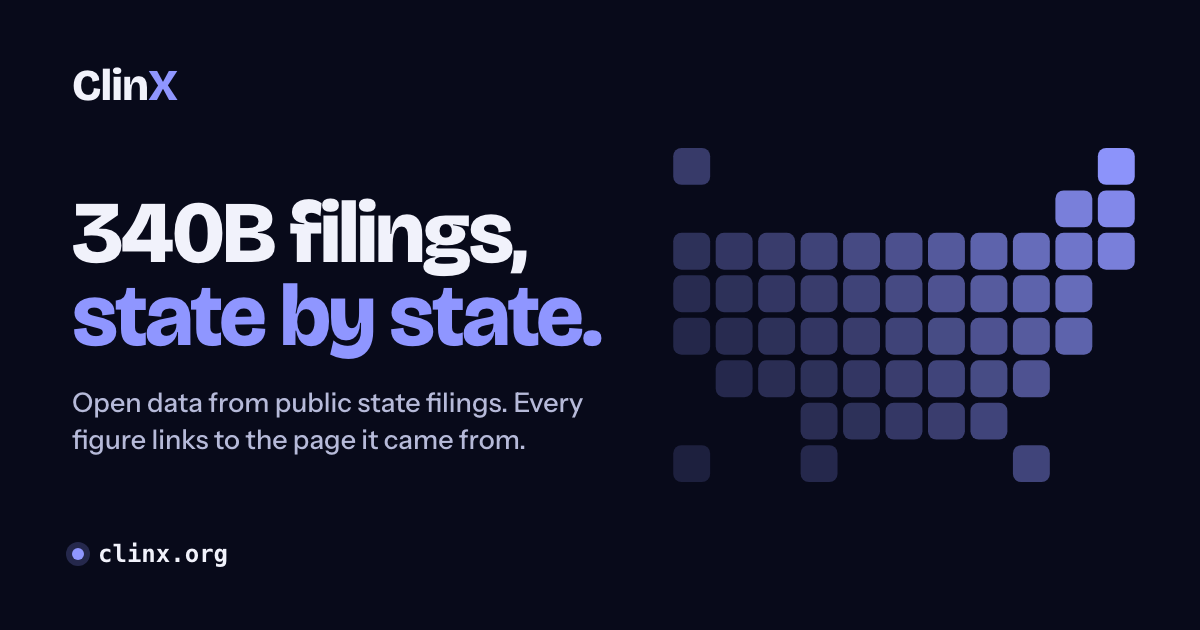
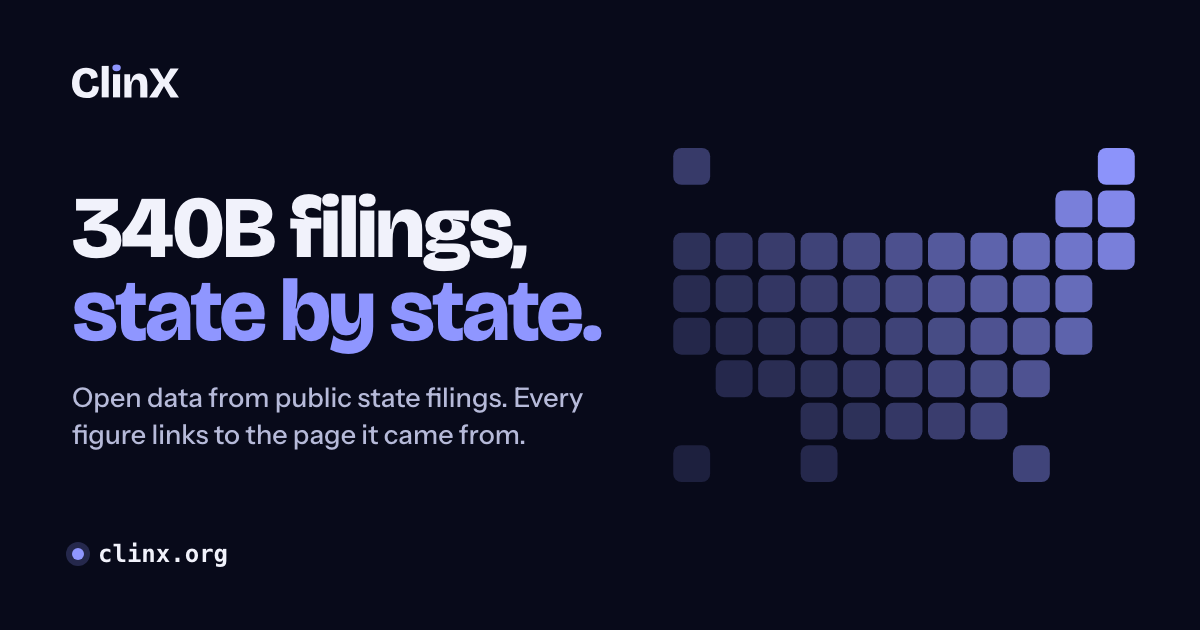
Brand: the wordmark with a purple dot, the dot as the mark, one standard
The owner picked the mark on 12 Nov 2026: the purple dot of the i by itself,
and the name in one colour with that dot. The coloured X and the X tab icon
are gone.

- docs/brand.md: the standard (name, wordmark, mark, colours, typefaces,
  ClinX beside ReferralFinderX, what not to do).
- scripts/brand/: one script draws every SVG from one set of letter shapes;
  README says how to redraw the pictures and cards.
- public/brand/: wordmarks for light and dark, the mark (SVG, PNG 512 and
  1024, a square version), a share card for each of the three repositories,
  the site's share card redrawn with the new wordmark.
- Tab icon set: favicon.svg (follows light and dark), favicon.ico,
  favicon-32.png, apple-touch-icon.png.
- Header and footer draw the wordmark from the same shapes; colours come
  from the stylesheet. Nothing in the drug sections changed.

Changed region(s): [[0.0617, 0.3016, 0.5242, 0.573], [0.0617, 0.6032, 0.4933, 0.7238], [0.0617, 0.0905, 0.1542, 0.181]]

diff --git a/scripts/brand/repo-cards.html b/scripts/brand/repo-cards.html
@@ -1,0 +1,61 @@
+<!doctype html>
+<!--
+  The preview pictures GitHub shows when a link to one of the three repositories is shared
+  (public/brand/card-clinx-340b.png, card-clinx-radar.png, card-clinx-org.png).
+  One file holds all three. To redraw one: open this file with the repository's name after a #
+  (repo-cards.html#clinx-radar) in a browser window 1280 wide and 640 tall and save a picture of it.
+  The look is the share card's (share-card.html). The large dot is the ClinX mark.
+-->
+<html lang="en">
+<head>
+<meta charset="utf-8">
+<title>ClinX repository cards</title>
+<style>
+@font-face { font-family: 'Bricolage Grotesque'; font-weight: 200 800; src: url('../../node_modules/@fontsource-variable/bricolage-grotesque/files/bricolage-grotesque-latin-opsz-normal.woff2') format('woff2'); }
+@font-face { font-family: 'Instrument Sans'; font-weight: 400 700; src: url('../../node_modules/@fontsource-variable/instrument-sans/files/instrument-sans-latin-wght-normal.woff2') format('woff2'); }
+* { box-sizing: border-box; margin: 0; }
+html, body { width: 1280px; height: 640px; }
+body { background: #080a1a; color: #f1f2fb; font-family: 'Instrument Sans', system-ui, sans-serif; position: relative; overflow: hidden; -webkit-font-smoothing: antialiased; }
+section { display: none; }
+section:target { display: block; }
+.say { position: absolute; left: 80px; top: 68px; bottom: 68px; width: 640px; display: flex; flex-direction: column; }
+.mark { height: 37px; align-self: flex-start; }
+h1 { font: 800 80px/0.96 'Bricolage Grotesque', sans-serif; letter-spacing: -0.03em; margin-top: auto; }
+h1 span { display: block; color: #8f96ff; }
+p { font: 500 27px/1.35 'Instrument Sans', sans-serif; color: #b6bad9; margin-top: 26px; max-width: 600px; }
+.where { margin-top: auto; font: 600 23px/1 ui-monospace, 'SF Mono', Menlo, monospace; color: #f1f2fb; display: flex; align-items: center; gap: 14px; }
+.where i { width: 12px; height: 12px; border-radius: 50%; background: #8f96ff; box-shadow: 0 0 0 6px rgba(143, 150, 255, 0.22); }
+.where b { font-weight: 600; color: #b6bad9; }
+.dot { position: absolute; right: -96px; top: 50%; translate: 0 -50%; width: 560px; height: 560px; }
+</style>
+</head>
+<body>
+<section id="clinx-340b">
+  <div class="say">
+    <img class="mark" src="../../public/brand/clinx-wordmark-on-dark.svg" alt="ClinX">
+    <h1>State 340B filings, <span>as open data.</span></h1>
+    <p>Every figure is kept as printed and names the page of the filing it was read from.</p>
+    <div class="where"><i></i><span><b>github.com/VVillBerchtold/</b>clinx-340b</span></div>
+  </div>
+  <img class="dot" src="../../public/brand/clinx-mark.svg" alt="">
+</section>
+<section id="clinx-radar">
+  <div class="say">
+    <img class="mark" src="../../public/brand/clinx-wordmark-on-dark.svg" alt="ClinX">
+    <h1>What changed in <span>the 340B registry.</span></h1>
+    <p>Keeps dated copies of the federal registry and reports what changed between two of them.</p>
+    <div class="where"><i></i><span><b>github.com/VVillBerchtold/</b>clinx-radar</span></div>
+  </div>
+  <img class="dot" src="../../public/brand/clinx-mark.svg" alt="">
+</section>
+<section id="clinx-org">
+  <div class="say">
+    <img class="mark" src="../../public/brand/clinx-wordmark-on-dark.svg" alt="ClinX">
+    <h1>The code behind <span>clinx.org.</span></h1>
+    <p>A free site of state 340B filings. No cookies, no trackers, no sign-in.</p>
+    <div class="where"><i></i><span><b>github.com/VVillBerchtold/</b>clinx-org</span></div>
+  </div>
+  <img class="dot" src="../../public/brand/clinx-mark.svg" alt="">
+</section>
+</body>
+</html>

diff --git a/scripts/brand/share-card.html b/scripts/brand/share-card.html
@@ -2,6 +2,7 @@
 <!--
   The picture a link to ClinX.org shows when it is shared (public/brand/share-card.png).
   To redraw it: open this file in a browser window 1200 wide and 630 tall and save a picture of it.
+  The name at the top is the drawn wordmark (clinx-wordmark-on-dark.svg, from build.mjs).
   The tile pattern is decoration: the grid is the site's state map with no letters, and the
   brightness of a tile stands for nothing. It never needs to change when a state is added.
 -->
@@ -16,8 +17,8 @@
 html, body { width: 1200px; height: 630px; }
 body { background: #080a1a; color: #f1f2fb; font-family: 'Instrument Sans', system-ui, sans-serif; position: relative; overflow: hidden; -webkit-font-smoothing: antialiased; }
 .say { position: absolute; left: 72px; top: 64px; bottom: 64px; width: 580px; display: flex; flex-direction: column; }
-.mark { font: 800 44px/1 'Bricolage Grotesque', sans-serif; letter-spacing: -0.02em; }
-.mark span, h1 span { color: #8f96ff; }
+.mark { height: 34px; align-self: flex-start; }
+h1 span { color: #8f96ff; }
 h1 { font: 800 88px/0.94 'Bricolage Grotesque', sans-serif; letter-spacing: -0.03em; margin-top: auto; }
 h1 span { display: block; }
 p { font: 500 27px/1.35 'Instrument Sans', sans-serif; color: #b6bad9; margin-top: 28px; max-width: 560px; }
@@ -28,7 +29,7 @@ svg { position: absolute; right: 56px; top: 50%; translate: 0 -50%; width: 480px
 </head>
 <body>
 <div class="say">
-  <div class="mark">Clin<span>X</span></div>
+  <img class="mark" src="../../public/brand/clinx-wordmark-on-dark.svg" alt="ClinX">
   <h1>340B filings, <span>state by state.</span></h1>
   <p>Open data from public state filings. Every figure links to the page it came from.</p>
   <div class="where"><i></i>clinx.org</div>

diff --git a/src/styles/layout.css b/src/styles/layout.css
@@ -198,17 +198,27 @@ code {
   padding-block: 1.25rem;
 }
 .mark {
-  font: 800 1.625rem/1 var(--display);
-  letter-spacing: -0.02em;
+  display: inline-flex;
+  align-items: center;
+  height: 1.625rem;
+  color: var(--ink);
   text-decoration: none;
 }
-.mark span {
-  display: inline-block;
-  color: var(--accent);
-  transition: transform 0.5s cubic-bezier(0.2, 0.9, 0.2, 1.2);
+/* The wordmark is a drawing (docs/brand.md): one colour, with the dot of the i in the accent. */
+.wordmark {
+  display: block;
+  height: 1.25rem;
+  width: auto;
+  overflow: visible;
+  fill: currentColor;
 }
-.mark:hover span {
-  transform: rotate(90deg) scale(1.15);
+.wordmark-dot {
+  fill: var(--accent);
+  transition: translate 0.5s cubic-bezier(0.2, 0.9, 0.2, 1.2);
+}
+/* The drawing is 774 units tall, so 70 units is a lift of about two pixels in the header. */
+.mark:hover .wordmark-dot {
+  translate: 0 -70px;
 }
 .site-nav ul {
   display: flex;

diff --git a/docs/brand.md b/docs/brand.md
@@ -1,0 +1,60 @@
+# The ClinX brand
+
+A two-minute read. It covers how the name is written, the two drawings, the colours and the typefaces, so that everything carrying the ClinX name looks like it came from one place.
+
+## The name
+
+Write **ClinX**: capital C, capital X, one word. Not Clinx, CLINX, Clin-X or Clin X. The site is **clinx.org**, in lower case.
+
+## The wordmark and the mark
+
+| | What it is | Files |
+|---|---|---|
+| **Wordmark** | The name in the site's heavy lettering, in one colour, with the dot of the i in purple | `public/brand/clinx-wordmark-on-light.svg`, `clinx-wordmark-on-dark.svg` |
+| **Mark** | That same dot by itself, with nothing behind it | `public/brand/clinx-mark.svg`, `clinx-mark-on-dark.svg`, PNG at 512 and 1024 |
+
+The dot is the typeface's own dot. It is a little wider than it is tall, so it is not a plain circle. Use the files; do not redraw it.
+
+- **Which one.** Use the wordmark wherever the name fits. Use the mark only where it cannot: a browser tab, an app icon, a profile picture.
+- **Not side by side.** The wordmark already holds the dot, so the mark is never placed next to it.
+- **Clear space.** Keep a gap as wide as the dot on every side of the wordmark, and half the mark's width around the mark.
+- **Smallest size.** Wordmark: 16 pixels tall. Mark: 16 pixels.
+- **Where a square is needed** (a picture that is cut to a circle, or cannot show through), use `clinx-mark-square.svg`: the dot on the light page colour.
+
+## Colours
+
+| | Light pages | Dark pages |
+|---|---|---|
+| Purple (the dot, links, buttons) | `#3437e6` | `#8f96ff` |
+| Ink (the name, text) | `#0b0d24` | `#f1f2fb` |
+| Page | `#f4f5fc` | `#080a1a` |
+
+Purple is the brand colour. The full set the site uses lives in `src/styles/tokens.css`.
+
+## Typefaces
+
+- **Bricolage Grotesque** for headings and the wordmark (weight 800).
+- **Instrument Sans** for everything else.
+
+Both are open typefaces and are served from the site itself.
+
+## ClinX and ReferralFinderX
+
+They are separate brands by the same founder, Will Berchtold. Each keeps its own name, logo and colours. When one mentions the other it is in plain words or with the other's own logo, as on the Products page. Never blend the two logos, and always write ReferralFinderX in full.
+
+## What not to do
+
+- Do not colour the X, or any letter. The only purple in the name is the dot.
+- Do not use an X, in a square or otherwise, as the mark.
+- Do not put the dot on a purple square, stretch it, tilt it or make it a perfect circle.
+- Do not set the name in another typeface or weight and call it the wordmark.
+- Do not build a logo from one tool's picture, such as the Scorecard's tile map. The map can illustrate that tool; it is not the brand.
+- Do not place either drawing on a busy photograph or on a colour where the dot is hard to see.
+
+## The name and the drawings are not open-licensed
+
+The code and the data are open, under the licences named in each repository. The ClinX name, the wordmark and the mark are not covered by those licences. Using them to point at ClinX is fine; using them to suggest that ClinX made or approves something else is not. The About page says the same.
+
+## Redrawing
+
+Everything comes from one script. See [`scripts/brand/README.md`](../scripts/brand/README.md).

diff --git a/scripts/brand/README.md b/scripts/brand/README.md
@@ -1,0 +1,44 @@
+# The brand drawings and how to redraw them
+
+The rules for using them are in [`docs/brand.md`](../../docs/brand.md). This page is about making the files.
+
+| File here | What it is |
+|---|---|
+| `outlines.mjs` | The shapes of the five letters of "ClinX", read once from Bricolage Grotesque at weight 800. Data only |
+| `build.mjs` | Draws the wordmark, the mark and the tab icon from those shapes. The site's header uses it too (`src/components/Wordmark.astro`) |
+| `share-card.html` | The picture a link to clinx.org shows when shared |
+| `repo-cards.html` | The pictures the three repositories show when shared |
+
+## The drawings (SVG)
+
+```bash
+node scripts/brand/build.mjs
+```
+
+It needs nothing installed and writes `public/favicon.svg` and, in `public/brand/`, the two wordmarks, the two marks and the square mark. Change a colour or a shape in `build.mjs`, run it again, and every drawing follows.
+
+## The pictures (PNG)
+
+These are made from the drawings by hand, with any tool that turns an SVG into a PNG. With `rsvg-convert`:
+
+```bash
+cd public/brand
+rsvg-convert -w 512  clinx-mark.svg        -o clinx-mark-512.png
+rsvg-convert -w 1024 clinx-mark.svg        -o clinx-mark-1024.png
+rsvg-convert -w 1024 clinx-mark-square.svg -o clinx-mark-square-1024.png
+rsvg-convert -w 180  clinx-mark-square.svg -o ../apple-touch-icon.png
+rsvg-convert -w 32   clinx-mark.svg        -o ../favicon-32.png
+```
+
+`public/favicon.ico` holds the mark at 16, 32 and 48 pixels for older browsers; ImageMagick joins three PNGs into one: `magick 16.png 32.png 48.png favicon.ico`.
+
+## The cards
+
+Run `npm install` first, because the cards load the typefaces from `node_modules`. Then open the file in a browser window of the stated size and save a picture of it.
+
+- `share-card.html` at 1200 by 630 becomes `public/brand/share-card.png`.
+- `repo-cards.html#clinx-340b`, `#clinx-radar` and `#clinx-org` at 1280 by 640 become `public/brand/card-clinx-340b.png` and so on. Each is then uploaded by hand in that repository's settings on GitHub, under Social preview.
+
+## Check by looking
+
+After any change, look at the mark at 16, 32 and 64 pixels on a light and a dark background, and at the header on a phone and a desktop in both themes. A drawing that passes every check can still look wrong.

diff --git a/scripts/README.md b/scripts/README.md
@@ -13,7 +13,8 @@ None of these ship to a reader's browser. They run when the site is built, check
 | `refresh/` | Once a month | Pulls the federal registry export and the FDA directory, compares, rebuilds |
 | `reference/build-fda-ndc.mjs` | Once a month, or by hand | Rebuilds the drug names file from the FDA directory |
 | `deploy/publish.sh` | Only when a person publishes | Publishes `dist/` with one pinned tool |
-| `brand/share-card.html` | By hand | The drawing behind the link-preview picture |
+| `brand/build.mjs` | By hand, and when the site is built | Draws the ClinX wordmark, mark and tab icon from one set of letter shapes ([how](brand/README.md)) |
+| `brand/share-card.html`, `brand/repo-cards.html` | By hand | The drawings behind the link-preview pictures |
 
 The check scripts have no dependencies on purpose: a check should not rest on the thing it checks.
 
